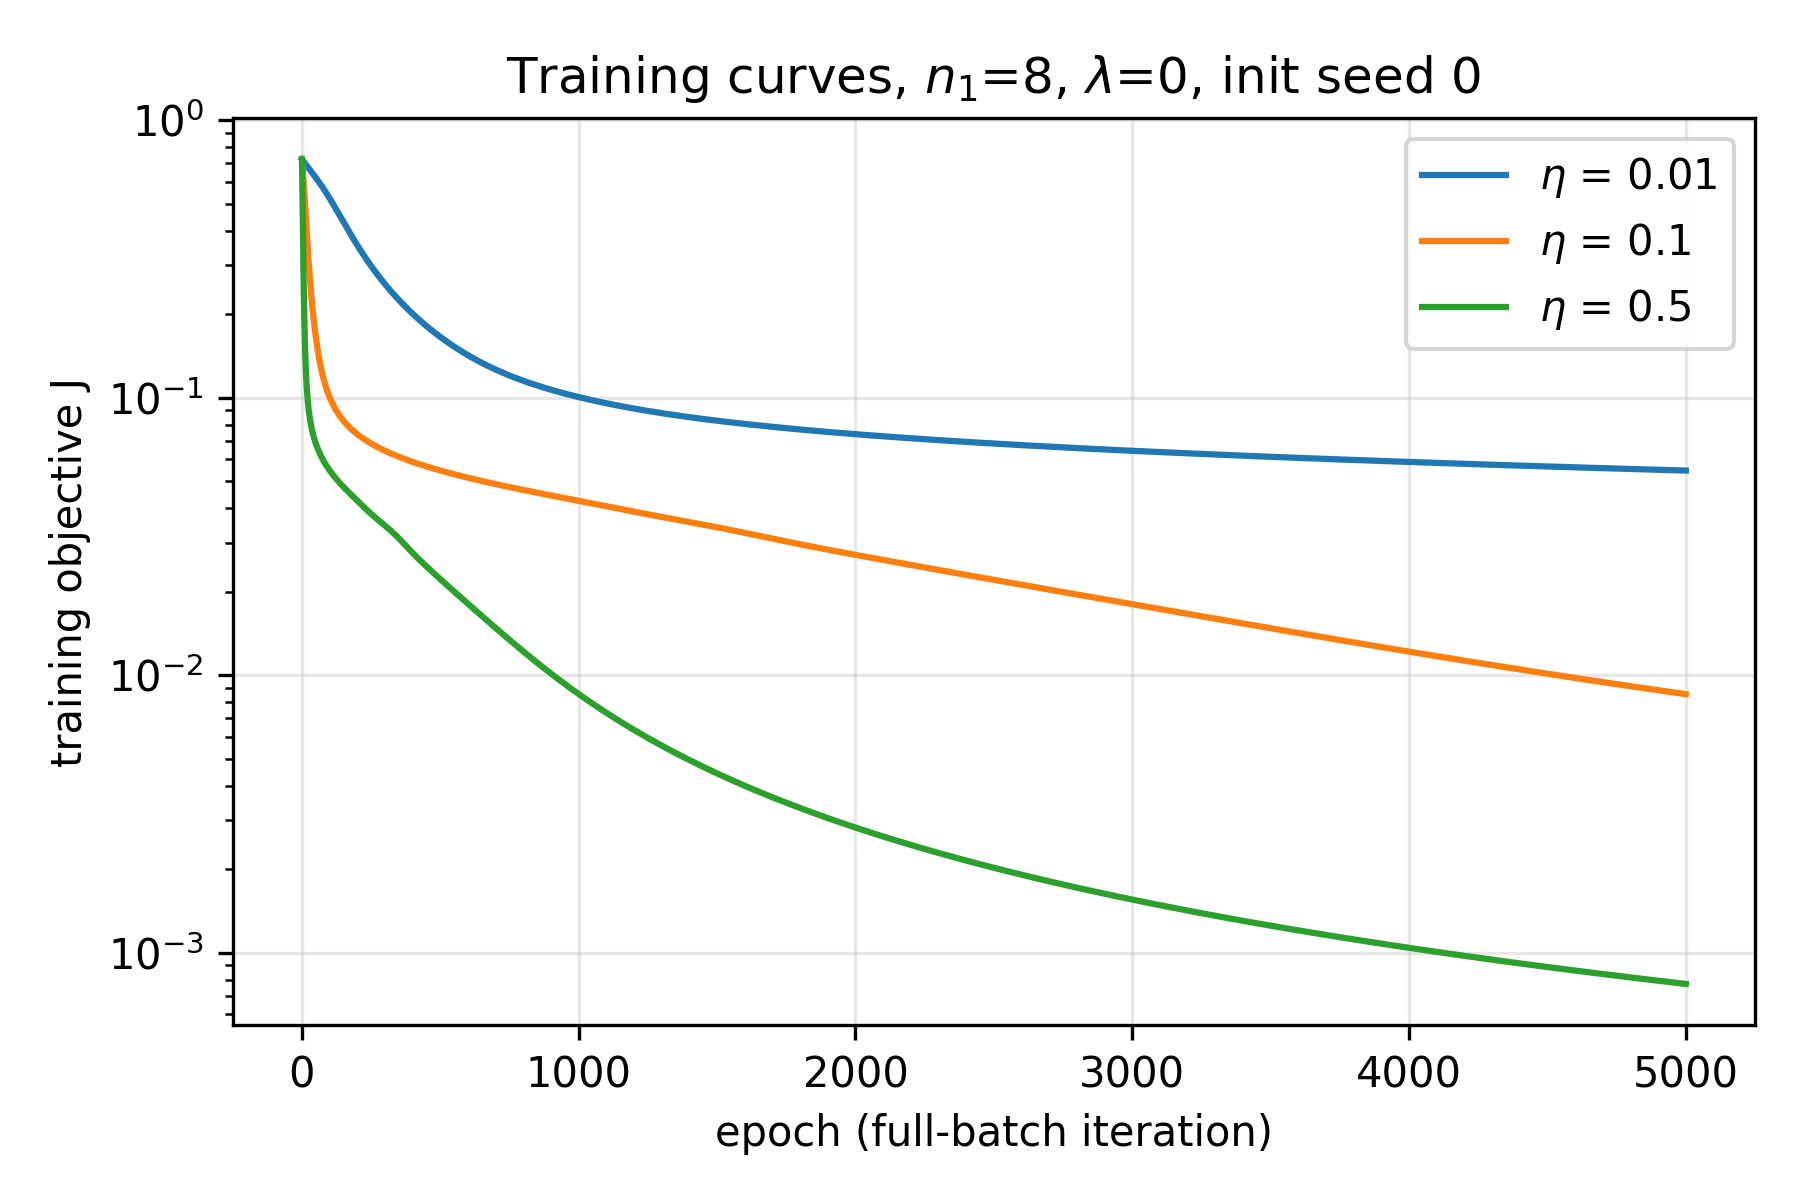
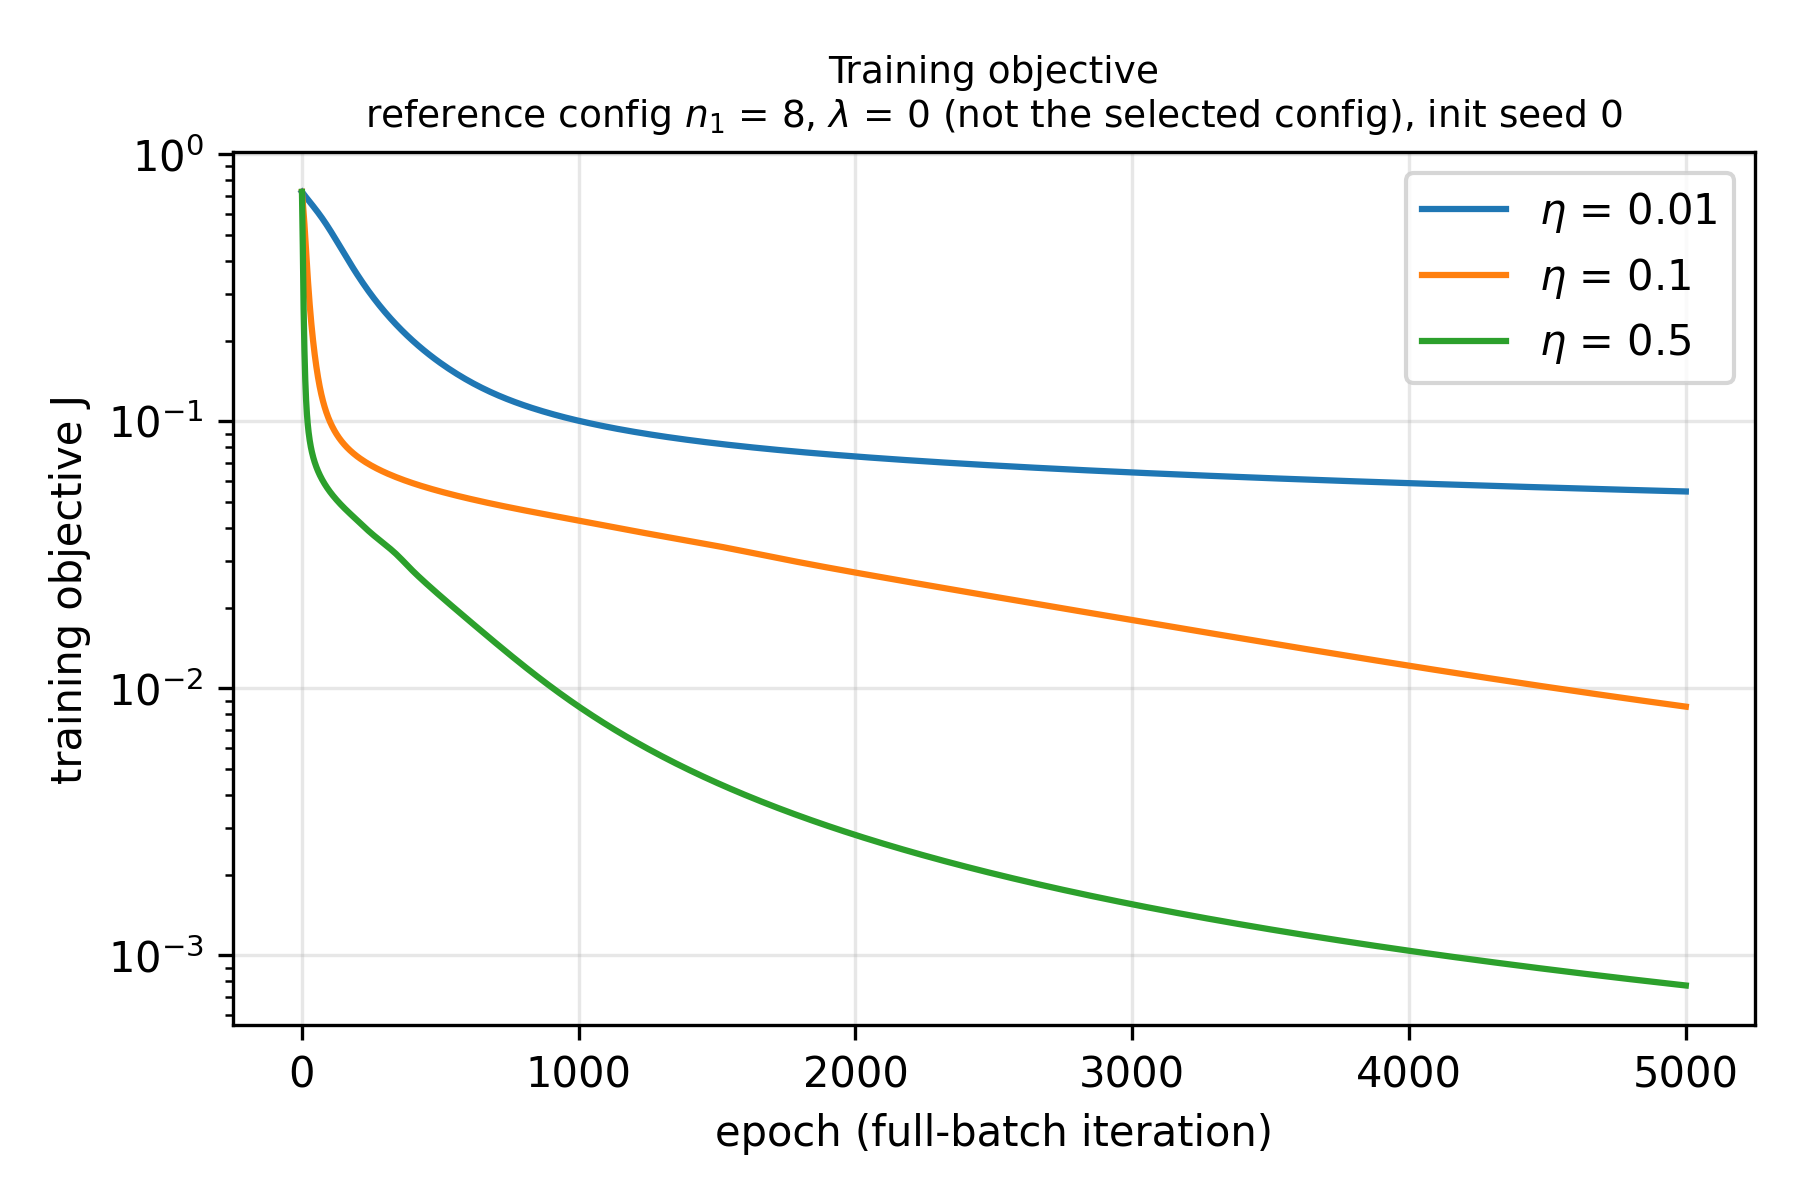
fix(figures): distinct ROC/PR styles, prevalence baseline, full colorbar range, clearer titles

diff --git a/code/make_figures.py b/code/make_figures.py
@@ -10,6 +10,7 @@ import csv
 import json
 import sys
 from pathlib import Path
+from typing import Any
 
 import matplotlib
 matplotlib.use("Agg")
@@ -46,8 +47,10 @@ def curves(cv, n1, lam, key):
 
 
 def fig_eta_curves(cv, n1=8, lam=0.0):
-    for key, ylabel, name in (("J", "training objective J", "fig_loss_1.png"),
-                              ("grad_norm", r"$\|\nabla J\|_2$", "fig_gradnorm_2.png")):
+    ref = fr"reference config $n_1$ = {n1}, $\lambda$ = {lam:g} (not the selected config), init seed 0"
+    for key, ylabel, title, legend_loc, name in (
+            ("J", "training objective J", "Training objective", "upper right", "fig_loss_1.png"),
+            ("grad_norm", r"$\|\nabla J\|_2$", "Gradient norm", "empty band", "fig_gradnorm_2.png")):
         fig, ax = plt.subplots(figsize=(6, 4))
         for eta, (x, y) in curves(cv, n1, lam, key).items():
             ax.plot(x, y, label=fr"$\eta$ = {eta:g}")
@@ -56,15 +59,18 @@ def fig_eta_curves(cv, n1=8, lam=0.0):
         ax.set_yscale("log")
         ax.set_xlabel("epoch (full-batch iteration)")
         ax.set_ylabel(ylabel)
-        ax.set_title(fr"Training curves, $n_1$={n1}, $\lambda$={lam:g}, init seed 0")
-        ax.legend()
+        ax.set_title(f"{title}\n{ref}", fontsize=9)
+        if legend_loc == "empty band":  # between the curves and the tolerance line; covers neither
+            ax.legend(loc="center right", bbox_to_anchor=(0.98, 0.30))
+        else:
+            ax.legend(loc=legend_loc)
         save(fig, name)
 
 
 def fig_val_heatmap(summ, sel):
     fig, axes = plt.subplots(1, 3, figsize=(11, 3.6), sharey=True)
     vmin = min(float(r["val_bce_mean"]) for r in summ)
-    vmax = np.percentile([float(r["val_bce_mean"]) for r in summ], 90)
+    vmax = max(float(r["val_bce_mean"]) for r in summ)  # full range: no saturated cells
     im = None
     for ax, eta in zip(axes, cfg.LEARNING_RATES):
         M = np.zeros((len(cfg.HIDDEN_WIDTHS), len(cfg.LAMBDAS)))
@@ -135,22 +141,35 @@ def fig_confusion(preds):
 def fig_roc_pr(preds):
     te = [r for r in preds if r["split"] == "test"]
     y = np.array([int(r["y_true"]) for r in te])
+    prevalence = float(y.mean())
     fig1, a1 = plt.subplots(figsize=(4.8, 4.4)); fig2, a2 = plt.subplots(figsize=(4.8, 4.4))
-    rows = []
+    styles: dict[str, dict[str, Any]] = {
+        "MLP": dict(color="C0", ls="-", lw=3.5, alpha=0.9),
+        "Logistic regression": dict(color="C1", ls=(0, (4, 3)), lw=1.8),
+    }
+    rows, roc_pts, pr_pts = [], {}, {}
     for nm, c in (("MLP", "mlp_p"), ("Logistic regression", "logreg_p")):
         p = np.array([float(r[c]) for r in te])
         fpr, tpr, _ = skm.roc_curve(y, p); pr, rc, _ = skm.precision_recall_curve(y, p)
         auc, ap = skm.roc_auc_score(y, p), skm.average_precision_score(y, p)
-        a1.plot(fpr, tpr, label=f"{nm} (AUC {auc:.4f})"); a2.plot(rc, pr, label=f"{nm} (AP {ap:.4f})")
+        a1.plot(fpr, tpr, label=f"{nm} (AUC {auc:.4f})", **styles[nm])
+        a2.plot(rc, pr, label=f"{nm} (AP {ap:.4f})", **styles[nm])
+        roc_pts[nm], pr_pts[nm] = (fpr, tpr), (rc, pr)
         rows.append({"model": nm, "roc_auc": auc, "average_precision": ap})
-    a1.plot([0, 1], [0, 1], "k--", lw=1); a1.set_xlabel("false positive rate"); a1.set_ylabel("true positive rate")
-    a1.set_title("ROC, test set"); a1.legend(loc="lower right")
-    a2.set_xlabel("recall"); a2.set_ylabel("precision"); a2.set_title("Precision-recall, test set")
-    a2.set_ylim(0.5, 1.02); a2.legend(loc="lower left")
+    same_roc = all(np.array_equal(u, v) for u, v in zip(roc_pts["MLP"], roc_pts["Logistic regression"]))
+    same_pr = all(np.array_equal(u, v) for u, v in zip(pr_pts["MLP"], pr_pts["Logistic regression"]))
+    a1.plot([0, 1], [0, 1], color="k", ls=":", lw=1, label="chance")
+    a1.set_xlabel("false positive rate"); a1.set_ylabel("true positive rate")
+    a1.set_title("ROC, test set" + ("\n(the two curves coincide)" if same_roc else ""), fontsize=10)
+    a1.legend(loc="lower right")
+    a2.axhline(prevalence, color="k", ls=":", lw=1, label=f"prevalence baseline ({prevalence:.3f})")
+    a2.set_xlabel("recall"); a2.set_ylabel("precision"); a2.set_ylim(0, 1.05)
+    a2.set_title("Precision-recall, test set" + ("\n(the two curves coincide)" if same_pr else ""), fontsize=10)
+    a2.legend(loc="lower left")
     save(fig1, "fig_roc_1.png"); save(fig2, "fig_pr_2.png")
     with open(RES / "roc_pr_summary.csv", "w", newline="") as f:
         w = csv.DictWriter(f, fieldnames=list(rows[0])); w.writeheader(); w.writerows(rows)
-    print(rows)
+    print(rows, "| curves identical: ROC", same_roc, "PR", same_pr, "| prevalence", round(prevalence, 4))
 
 
 def main() -> None:
